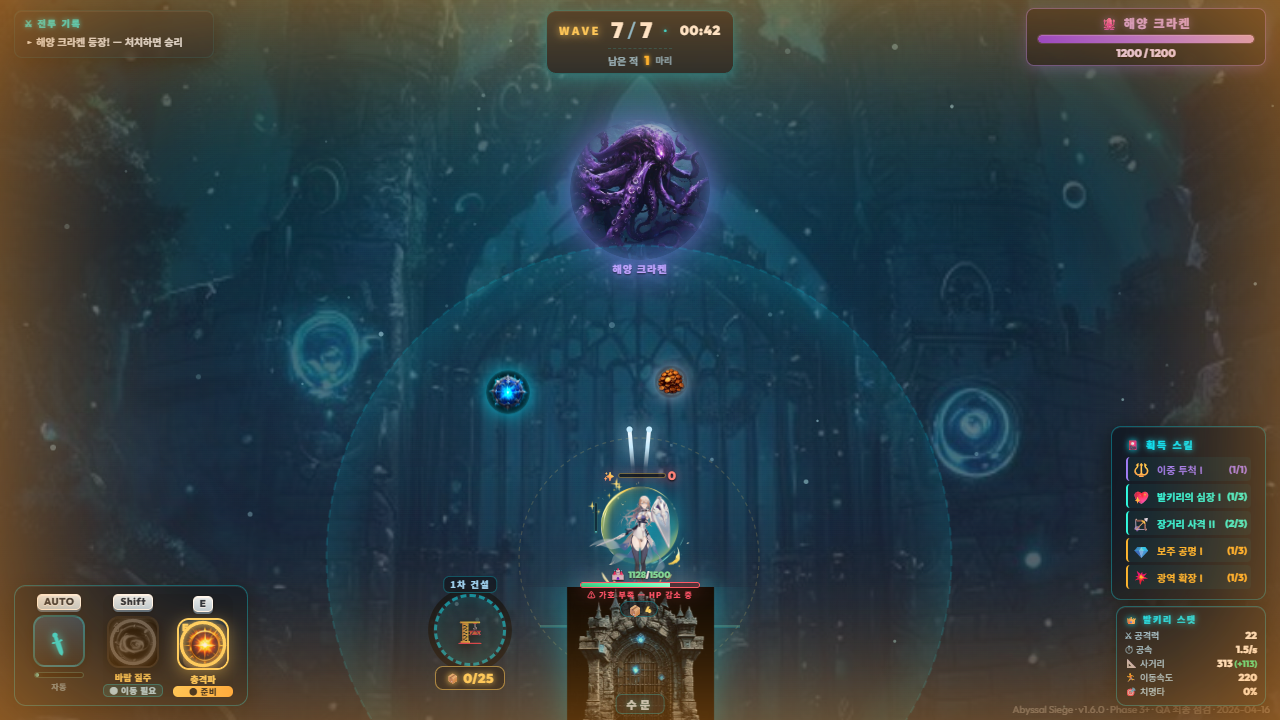
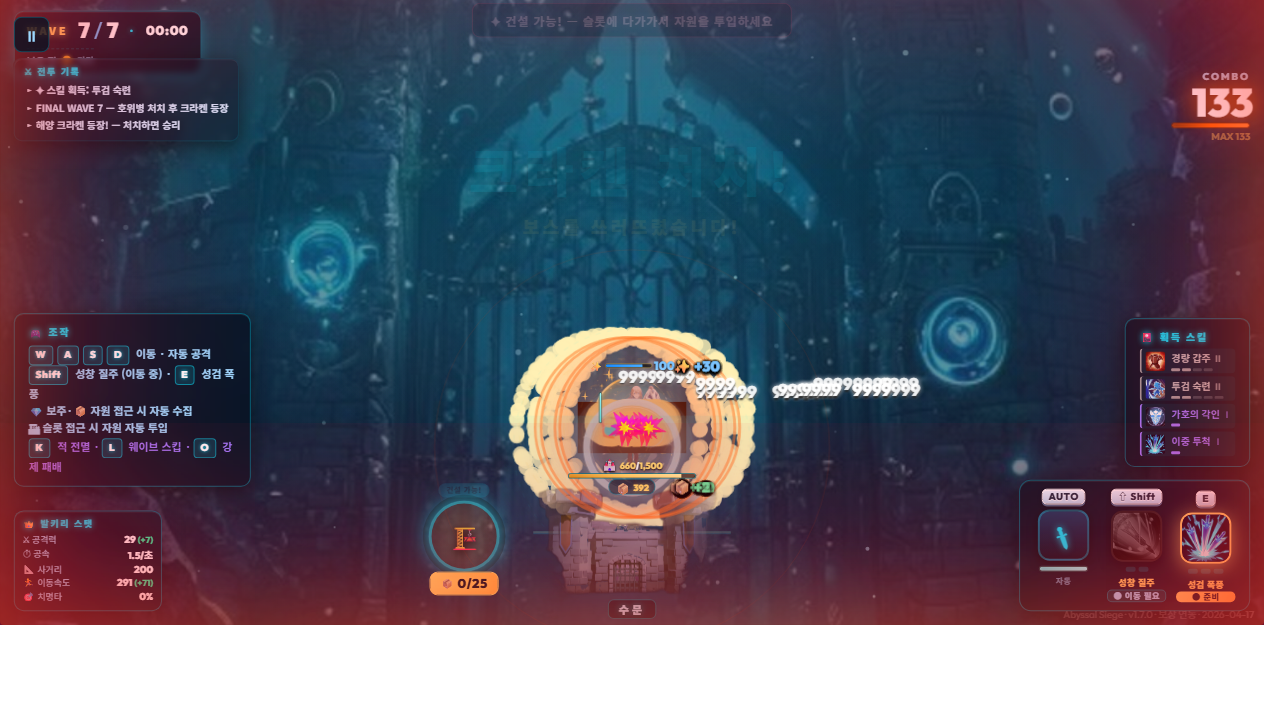
[v2.3] 발키리 UI 전면 개선 + 스크린샷 최신화
- WAVE 정보창: 상단 가운데 → 좌상단 이동 (보스 HP 바 공간 확보)
- 보스 HP 바: 상단 우측 → 상단 가운데 (420px, 3페이즈 색상 변화)
- 가호 실드: 원형 아크 게이지 → 에너지 버블 포스필드 (v2.3)
  · 반투명 구체 + 빛나는 외곽 링 + 3D 반사 하이라이트
  · 에너지 소용돌이(wisps) + 하단 파문(ripple) 효과
  · 100% = 두꺼운 강력한 버블, 0% = 완전 소멸
- 공격/수집 범위 원: 투명도 대폭 낮춤 (최소화, 인지 가능 수준)
- spec.html 스크린샷 4종 최신화 (타이틀/게임플레이/카드드래프트/보스)

diff --git a/index.html b/index.html
@@ -84,30 +84,34 @@
   #player{width:120px;height:120px;filter:drop-shadow(0 0 12px rgba(0,229,255,.6))}
   #player.dashing{filter:drop-shadow(0 0 22px var(--cyan)) brightness(1.35)}
   #player.hit{filter:drop-shadow(0 0 14px var(--red)) brightness(1.6)}
-  /* 가호 아우라 — 게이지에 따라 투명도/색상 변화 */
+  /* 가호 실드 아우라 (v2.3 — canvas 버블 보완 ambient glow) */
   #player .aura{
     position:absolute;
-    inset:-36px;
+    inset:-34px;
     border-radius:50%;
     pointer-events:none;
-    background:radial-gradient(circle,rgba(0,229,255,.35) 0%,rgba(0,180,255,.18) 40%,transparent 70%);
-    box-shadow:0 0 28px rgba(0,229,255,.4), 0 0 12px rgba(0,229,255,.25), inset 0 0 20px rgba(0,229,255,.1);
-    animation:auraPulse 1.8s ease-in-out infinite;
-    transition:opacity .4s, filter .4s, background .5s, box-shadow .5s;
+    /* 캔버스 버블의 ambient 보완 — 파란 환경광 */
+    background:radial-gradient(circle,rgba(60,180,255,.07) 45%,transparent 72%);
+    box-shadow:0 0 22px 5px rgba(60,190,255,.10);
+    animation:auraPulse 2.5s ease-in-out infinite;
+    transition:opacity .4s;
+    opacity:var(--aura-o,1);
   }
   @keyframes auraPulse{
-    0%,100%{transform:scale(1);opacity:var(--aura-o,1)}
-    50%{transform:scale(1.12);opacity:calc(var(--aura-o,1)*0.7)}
+    0%,100%{transform:scale(1)}
+    50%     {transform:scale(1.04)}
   }
+  /* 경고 ≤30%: 주황으로 변색 */
   #player .aura.warn{
-    background:radial-gradient(circle,rgba(255,120,0,.45) 0%,rgba(255,60,0,.22) 40%,transparent 70%);
-    box-shadow:0 0 32px rgba(255,100,0,.6), 0 0 16px rgba(255,60,0,.35), inset 0 0 24px rgba(255,100,0,.15);
-    animation:auraWarn .6s ease-in-out infinite;
+    background:radial-gradient(circle,rgba(255,100,20,.09) 45%,transparent 72%);
+    box-shadow:0 0 24px 6px rgba(255,80,10,.14);
+    animation:auraWarn .65s ease-in-out infinite;
   }
   @keyframes auraWarn{
-    0%,100%{transform:scale(1);opacity:var(--aura-o,.5)}
-    50%{transform:scale(1.15);opacity:calc(var(--aura-o,.5)*0.4)}
+    0%,100%{transform:scale(1)}
+    50%     {transform:scale(1.07)}
   }
+  /* 가호 소진: 완전 숨김 */
   #player .aura.depleted{opacity:0!important;animation:none;transition:none!important}
   /* 발키리 공격 스윙 모션 (v0.9.6) */
   #player.attacking img{animation:valkSwing .14s cubic-bezier(.2,.8,.2,1)}
@@ -224,17 +228,27 @@
   .boss-cross-warn::after{width:100%;height:4px;top:calc(50% - 2px);left:0;}
   @keyframes crossWarn{0%{opacity:0;transform:scaleY(0)}50%{opacity:.9}100%{opacity:0;}}
   /* 보스 HUD HP 바 */
-  #bossHpBar{position:absolute;top:var(--crop-top,10px);right:14px;width:240px;z-index:10;text-align:center;
-    background:rgba(5,18,34,.88);border:1px solid rgba(157,123,255,.5);border-radius:8px;padding:5px 10px;
-    box-shadow:0 3px 14px rgba(157,123,255,.3);backdrop-filter:blur(4px)}
+  /* 보스 HP 바 — 상단 가운데, 대형 */
+  #bossHpBar{position:absolute;top:var(--crop-top,10px);left:50%;transform:translateX(-50%);right:auto;
+    width:420px;z-index:10;text-align:center;
+    background:rgba(4,8,22,.92);
+    border:1px solid rgba(157,123,255,.55);border-radius:12px;padding:8px 18px 10px;
+    box-shadow:0 0 32px rgba(157,123,255,.35),0 4px 18px rgba(0,0,0,.7);backdrop-filter:blur(6px)}
   #bossHpBar.hidden{display:none}
-  .boss-hp-label{font-size:12px;font-weight:900;color:#c8a0ff;letter-spacing:.12em;margin-bottom:3px;
-    text-shadow:0 0 8px rgba(157,123,255,.6)}
-  .boss-hp-track{width:100%;height:10px;background:rgba(0,0,0,.6);border-radius:5px;border:1px solid rgba(157,123,255,.3);overflow:hidden}
-  .boss-hp-fill{height:100%;background:linear-gradient(90deg,#7b2ff2,#c8a0ff);border-radius:5px;transition:width .15s;
-    box-shadow:inset 0 1px 0 rgba(255,255,255,.2)}
-  .boss-hp-text{font-family:'Outfit',sans-serif;font-size:11px;font-weight:900;color:#e0d0ff;margin-top:2px;
-    text-shadow:0 1px 2px #000}
+  .boss-hp-label{font-size:13px;font-weight:900;color:#c8a0ff;letter-spacing:.18em;margin-bottom:5px;
+    text-shadow:0 0 12px rgba(157,123,255,.8),0 0 24px rgba(157,123,255,.4)}
+  .boss-hp-track{width:100%;height:13px;background:rgba(0,0,0,.65);border-radius:7px;
+    border:1px solid rgba(157,123,255,.35);overflow:hidden;
+    box-shadow:0 0 8px rgba(157,123,255,.2) inset}
+  .boss-hp-fill{height:100%;background:linear-gradient(90deg,#5b0dcf,#9d7bff,#c8a0ff);
+    border-radius:7px;transition:width .18s;
+    box-shadow:inset 0 1px 0 rgba(255,255,255,.25),0 0 10px rgba(157,123,255,.5)}
+  .boss-hp-text{font-family:'Outfit',sans-serif;font-size:12px;font-weight:900;color:#e0d0ff;margin-top:4px;
+    letter-spacing:.06em;text-shadow:0 1px 3px #000}
+  #bossHpBar.phase-2 .boss-hp-fill{background:linear-gradient(90deg,#8b3a00,#ff8c00,#ffb347)}
+  #bossHpBar.phase-3 .boss-hp-fill{background:linear-gradient(90deg,#6b0000,#cc2200,#ff5050);animation:blinkBar .35s infinite}
+  #bossHpBar.phase-2{border-color:rgba(255,140,0,.55);box-shadow:0 0 32px rgba(255,100,0,.3),0 4px 18px rgba(0,0,0,.7)}
+  #bossHpBar.phase-3{border-color:rgba(255,50,50,.65);box-shadow:0 0 40px rgba(255,30,30,.4),0 4px 18px rgba(0,0,0,.7)}
 
   /* 수문 — GC 관문 (AI 배경 제거 완료, 투명 PNG) */
   #gate{position:absolute;left:50%;bottom:2px;transform:translateX(-50%);width:310px;height:210px;
@@ -315,9 +329,9 @@
   .panel .p-label{font-size:10px;color:var(--cyan);letter-spacing:.18em;margin-bottom:5px;
     text-shadow:0 0 6px var(--cyan);text-transform:uppercase;font-weight:900}
 
-  /* 상단 중앙 WAVE (v1.7 확대) — wide-mode: 상단 잘림 보상 */
-  #hudWave{top:var(--crop-top,10px);left:50%;transform:translateX(-50%);padding:6px 24px;text-align:center;display:flex;flex-direction:column;align-items:center;gap:0;
-    min-width:160px;transition:top .3s}
+  /* 좌상단 WAVE (v2.2 — 보스 HP 바가 중앙 점령, WAVE는 좌측으로 이동) */
+  #hudWave{top:var(--crop-top,10px);left:14px;transform:none;padding:5px 14px;text-align:left;display:flex;flex-direction:column;align-items:flex-start;gap:0;
+    min-width:130px;transition:top .3s}
   #hudWave .wv-tag{font-size:11px;color:var(--gold);letter-spacing:.25em;font-weight:900;text-shadow:0 0 8px var(--gold)}
   #hudWave .wv-num{font-family:'Outfit',sans-serif;font-size:22px;color:#fff;font-weight:900;letter-spacing:.06em}
   #hudWave .wv-num .slash{color:#6cc5ff;font-weight:400;margin:0 3px}
@@ -1526,7 +1540,7 @@
   body.portrait-mode #hudPlayer{bottom:6px;left:6px;min-width:100px;font-size:7px;padding:3px 5px}
   body.portrait-mode #touchSkills{display:none!important}
   body.portrait-mode #hudCards{max-width:120px;font-size:9px}
-  body.portrait-mode #hudWave{padding:3px 12px;min-width:100px}
+  body.portrait-mode #hudWave{padding:3px 8px;min-width:90px;left:6px}
   body.portrait-mode #hudWave .wv-tag{font-size:8px}
   body.portrait-mode #hudWave .wv-num{font-size:14px}
   body.portrait-mode #hudWaveInfo{min-width:100px;font-size:9px;padding:4px 6px}
@@ -1541,7 +1555,7 @@
   body.wide-mode #hudCards{max-width:150px;font-size:10px}
   body.wide-mode #hudCards .c-ico{font-size:12px}
   body.wide-mode #hudCards .c-nm{font-size:9px}
-  body.wide-mode #hudWave{padding:4px 16px;min-width:130px}
+  body.wide-mode #hudWave{padding:4px 12px;min-width:110px;left:10px}
   body.wide-mode #hudWave .wv-tag{font-size:9px}
   body.wide-mode #hudWave .wv-num{font-size:18px}
   body.wide-mode #hudWaveInfo{min-width:120px;font-size:10px;padding:6px 8px}
@@ -4717,18 +4731,11 @@ function updatePlayerGaugeTop(){
   // 가호 아우라 연출 업데이트
   const aura=document.getElementById('playerAura');
   if(aura){
-    const auraOpacity=(gp<=0||state.gaugeDepleted)?0:Math.max(0, Math.min(1, gp/70));
-    aura.style.setProperty('--aura-o', auraOpacity.toFixed(2));
-    // 게이지 레벨에 따라 아우라 색상 변화
-    if(gp>60){
-      aura.style.setProperty('--aura-color','rgba(0,229,255,');
-    } else if(gp>30){
-      aura.style.setProperty('--aura-color','rgba(100,255,100,');
-    } else if(gp>10){
-      aura.style.setProperty('--aura-color','rgba(255,180,0,');
-    }
-    aura.classList.toggle('warn', gp<=30 && gp>0);
-    aura.classList.toggle('depleted', state.gaugeDepleted);
+    // 선형 불투명도: 0%=완전투명, 100%=완전불투명, 최소 0.18(잔상 유지)
+    const auraOpacity=(gp<=0||state.gaugeDepleted)?0:Math.max(0.18,Math.min(1,gp/100));
+    aura.style.setProperty('--aura-o',auraOpacity.toFixed(2));
+    aura.classList.toggle('warn',gp<=30&&gp>0&&!state.gaugeDepleted);
+    aura.classList.toggle('depleted',state.gaugeDepleted);
   }
   // tier 색상 연동
   const gaugeTierCls=gp>75?'tier-blue':gp>50?'tier-green':gp>25?'tier-yellow':gp>10?'tier-red':'tier-blink';
@@ -5792,24 +5799,125 @@ function renderFx(dt){
     ctx.fillStyle=p.color+a+')';
     ctx.beginPath();ctx.arc(p.x,p.y,p.size,0,Math.PI*2);ctx.fill();
   }
-  // 공격 범위
-  const pulse=0.2+0.1*Math.sin(performance.now()/400);
-  ctx.save();
-  ctx.strokeStyle=`rgba(0,229,255,${pulse})`; ctx.lineWidth=2;
-  ctx.setLineDash([8,6]);
-  ctx.beginPath();ctx.arc(player.x,player.y,player.attackRange,0,Math.PI*2);ctx.stroke();
-  ctx.setLineDash([]);
-  const rg=ctx.createRadialGradient(player.x,player.y,player.attackRange*0.85,player.x,player.y,player.attackRange);
-  rg.addColorStop(0,'rgba(0,229,255,0)');
-  rg.addColorStop(1,'rgba(0,229,255,0.1)');
-  ctx.fillStyle=rg;
-  ctx.beginPath();ctx.arc(player.x,player.y,player.attackRange,0,Math.PI*2);ctx.fill();
-  // 수집 반경 (은은하게)
-  ctx.strokeStyle=`rgba(255,216,107,${0.14+0.05*Math.sin(performance.now()/300)})`;
-  ctx.lineWidth=1; ctx.setLineDash([4,4]);
-  ctx.beginPath();ctx.arc(player.x,player.y,player.pickupRadius,0,Math.PI*2);ctx.stroke();
-  ctx.setLineDash([]);
-  ctx.restore();
+  // ── 가호 실드 버블 (v2.3 — energy force field, 100%=강력/0%=소멸) ──
+  const _now=performance.now();
+  {
+    const _gp=Math.max(0,Math.min(1,state.gauge/state.gaugeMax));
+    if(_gp>0.005 && !state.gaugeDepleted){
+      const sR=46;
+      const _pulse=0.92+0.08*Math.sin(_now/550);
+      const _alpha=_gp*_pulse;
+      const _edgeW=1.5+5.5*_gp; // 100%=7px, 0%=1.5px
+      ctx.save();
+
+      // Layer 1: 외부 ambient halo (넓은 외부 광원)
+      ctx.shadowColor=`rgba(60,200,255,${_alpha*0.6})`;
+      ctx.shadowBlur=42*_gp;
+      ctx.strokeStyle=`rgba(80,210,255,${_alpha*0.12})`;
+      ctx.lineWidth=20;
+      ctx.beginPath();ctx.arc(player.x,player.y,sR+6,0,Math.PI*2);ctx.stroke();
+
+      // Layer 2: 내부 채움 — 3D 구체 느낌의 radial gradient
+      ctx.shadowBlur=0;
+      const _fgx=player.x-sR*0.26, _fgy=player.y-sR*0.30;
+      const _fg=ctx.createRadialGradient(_fgx,_fgy,0,player.x,player.y,sR);
+      _fg.addColorStop(0,   `rgba(210,245,255,${_alpha*0.16})`);
+      _fg.addColorStop(0.38,`rgba(80,195,255,${_alpha*0.07})`);
+      _fg.addColorStop(0.72,`rgba(30,130,255,${_alpha*0.10})`);
+      _fg.addColorStop(1,   `rgba(10,80,200,${_alpha*0.22})`);
+      ctx.fillStyle=_fg;
+      ctx.beginPath();ctx.arc(player.x,player.y,sR,0,Math.PI*2);ctx.fill();
+
+      // Layer 3: 버블 가장자리 링 (두께가 게이지에 비례 — 핵심)
+      ctx.shadowColor=`rgba(130,225,255,${_alpha*0.95})`;
+      ctx.shadowBlur=18*_gp;
+      ctx.strokeStyle=`rgba(175,235,255,${_alpha*0.88})`;
+      ctx.lineWidth=_edgeW;
+      ctx.lineCap='butt';
+      ctx.beginPath();ctx.arc(player.x,player.y,sR,0,Math.PI*2);ctx.stroke();
+
+      // Layer 4: 내측 밝은 링 (유리 안쪽 반사)
+      ctx.shadowBlur=4;
+      ctx.strokeStyle=`rgba(225,250,255,${_alpha*0.50})`;
+      ctx.lineWidth=0.8;
+      ctx.beginPath();ctx.arc(player.x,player.y,sR-_edgeW*0.7,0,Math.PI*2);ctx.stroke();
+
+      // Layer 5: 회전 하이라이트 스팟 (구체 반사광 — 3D 효과)
+      ctx.shadowBlur=0;
+      const _hlAng=(_now/5500)%(Math.PI*2);
+      const _hlX=player.x+Math.cos(_hlAng)*sR*0.58;
+      const _hlY=player.y+Math.sin(_hlAng)*sR*0.58;
+      ctx.save();
+      ctx.beginPath();ctx.arc(player.x,player.y,sR-1,0,Math.PI*2);ctx.clip();
+      const _hlG=ctx.createRadialGradient(_hlX,_hlY,0,_hlX,_hlY,sR*0.30);
+      _hlG.addColorStop(0,`rgba(255,255,255,${_alpha*0.42})`);
+      _hlG.addColorStop(0.55,`rgba(200,242,255,${_alpha*0.14})`);
+      _hlG.addColorStop(1,`rgba(255,255,255,0)`);
+      ctx.fillStyle=_hlG;
+      ctx.fillRect(player.x-sR,player.y-sR,sR*2,sR*2);
+      ctx.restore();
+
+      // Layer 6: 에너지 소용돌이 — 3가닥 (회전 wisps)
+      if(_gp>0.08){
+        ctx.save();
+        ctx.beginPath();ctx.arc(player.x,player.y,sR-2,0,Math.PI*2);ctx.clip();
+        for(let _wi=0;_wi<3;_wi++){
+          const _wt=(_now/3000+_wi/3)*Math.PI*2;
+          const _wR=sR*0.50;
+          const _wx=player.x+Math.cos(_wt)*_wR;
+          const _wy=player.y+Math.sin(_wt)*_wR;
+          ctx.shadowColor=`rgba(100,215,255,${_alpha*0.55})`;
+          ctx.shadowBlur=10;
+          ctx.strokeStyle=`rgba(160,230,255,${_alpha*_gp*0.40})`;
+          ctx.lineWidth=1.2;
+          ctx.beginPath();
+          ctx.arc(_wx,_wy,sR*0.30,_wt+0.4,_wt+2.7);
+          ctx.stroke();
+        }
+        ctx.restore();
+      }
+
+      // Layer 7: 하단 파문 (타원형 ripple — 구체 바닥)
+      if(_gp>0.12){
+        const _rp=0.30+0.06*Math.sin(_now/450);
+        ctx.save();
+        ctx.scale(1,0.22);
+        const _ryCanvas=(player.y+sR*0.92)/0.22;
+        ctx.shadowColor=`rgba(80,200,255,${_alpha*0.38})`;
+        ctx.shadowBlur=14;
+        ctx.strokeStyle=`rgba(120,215,255,${_alpha*0.32})`;
+        ctx.lineWidth=2;
+        ctx.beginPath();ctx.arc(player.x,_ryCanvas,sR*_rp,0,Math.PI*2);ctx.stroke();
+        ctx.restore();
+      }
+
+      ctx.restore();
+    }
+  }
+  // ── 발키리 범위 표시 (v2.3 — 최소화, 인지 가능 수준) ──
+  // 1) 공격 범위: 매우 얇고 희미하게 (정보용 최소 표시)
+  {
+    const ap=0.14+0.05*Math.sin(_now/650);
+    ctx.save();
+    ctx.shadowBlur=0;
+    ctx.strokeStyle=`rgba(255,80,20,${ap})`;
+    ctx.lineWidth=1;
+    ctx.setLineDash([]);
+    ctx.beginPath();ctx.arc(player.x,player.y,player.attackRange,0,Math.PI*2);ctx.stroke();
+    ctx.restore();
+  }
+  // 2) 아이템 획득 범위: 더 희미하게
+  {
+    const pp=0.10+0.04*Math.sin(_now/480);
+    ctx.save();
+    ctx.shadowBlur=0;
+    ctx.strokeStyle=`rgba(0,220,255,${pp})`;
+    ctx.lineWidth=0.8;
+    ctx.setLineDash([5,7]);
+    ctx.beginPath();ctx.arc(player.x,player.y,player.pickupRadius,0,Math.PI*2);ctx.stroke();
+    ctx.setLineDash([]);
+    ctx.restore();
+  }
   // v1.0.9→v1.1.0: 플레이어 머리 위 공속 게이지 제거 → 좌측 세로 바로 이동
   // v1.0.3: 건설 완료된 시설 공속 게이지 바 + 마법진 범위 원
   for(const s of state.facilitySlots){
